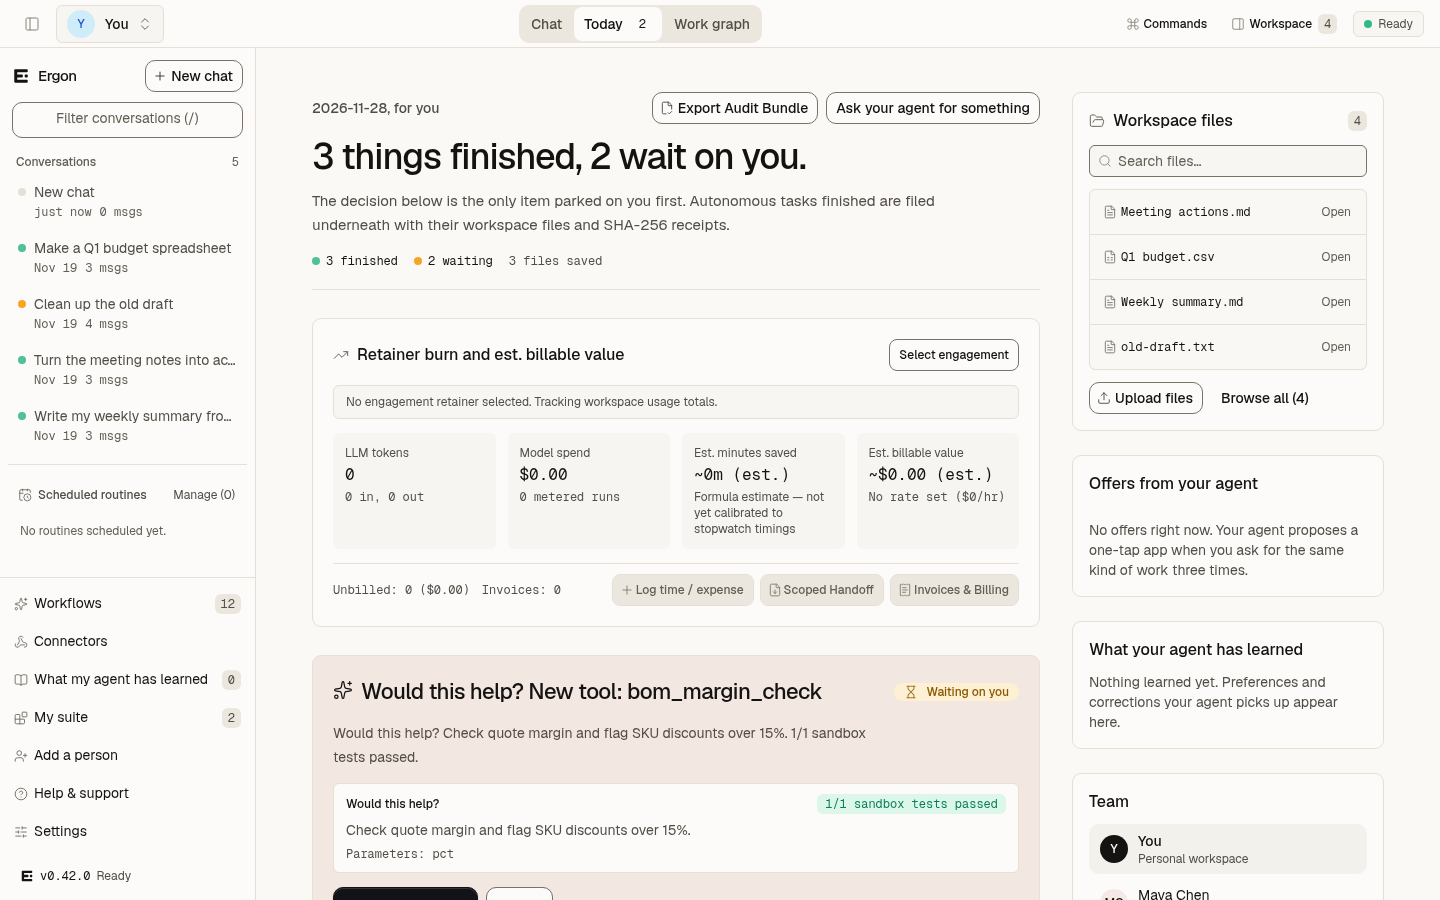
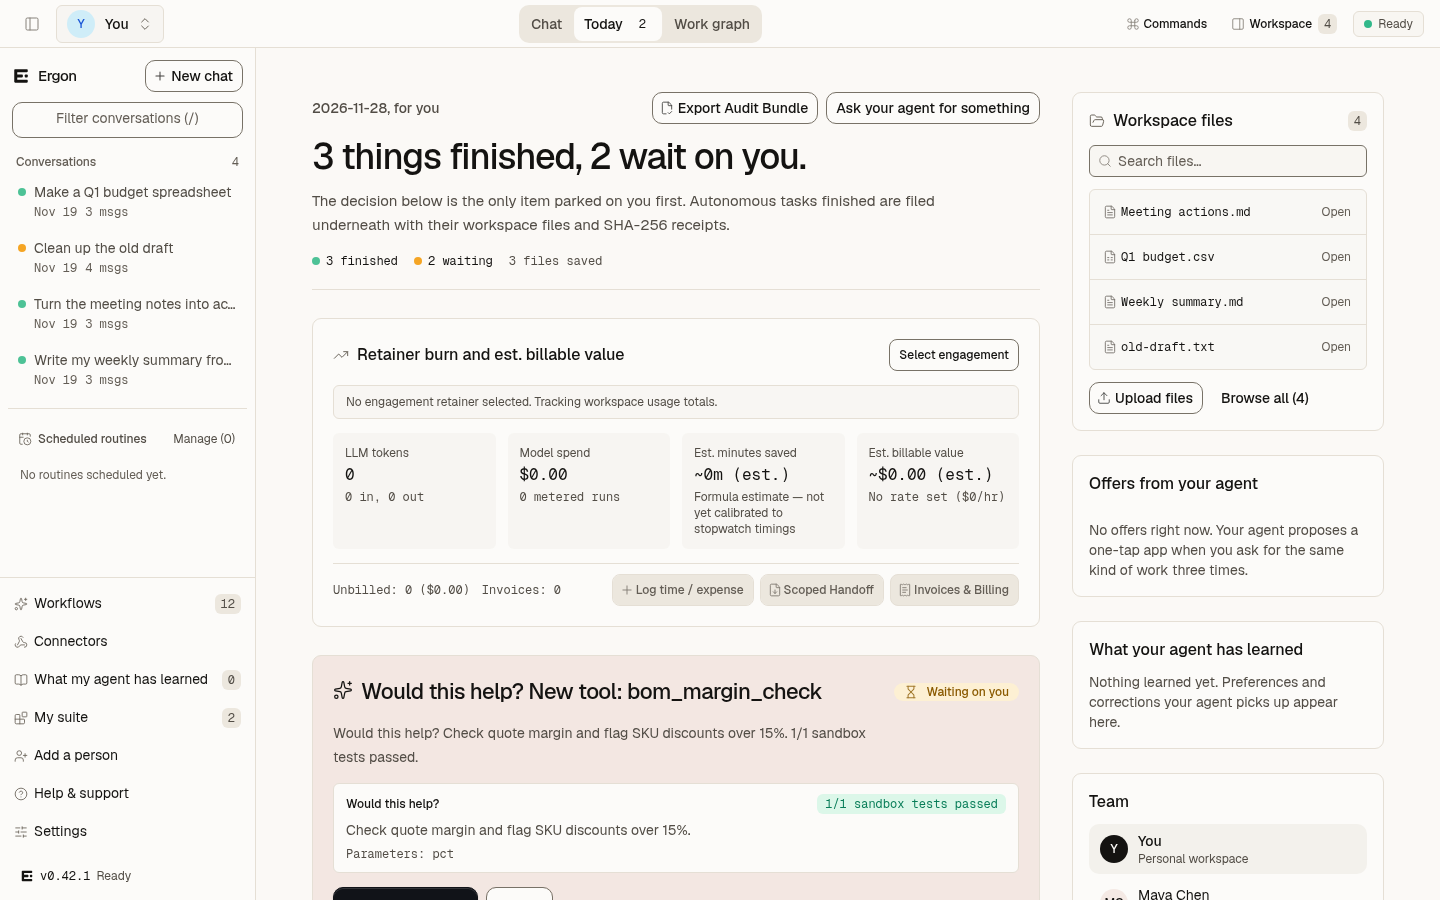
release: ship v0.42.1 with brand assets, refreshed screenshots, walkthrough poster, and Node 24 Actions

diff --git a/README.md b/README.md
@@ -24,13 +24,20 @@ Every employee gets an isolated workspace, phone-first Approve/Deny triage, sand
 <p align="center">
   <picture>
     <source media="(prefers-color-scheme: dark)" srcset="docs/screenshots/hero-dark.png" />
-    <img src="docs/screenshots/hero-light.png" alt="Ergon v0.42.0 Today view showing finished runs, sandbox-tested tool offer waiting for approval, team workspaces, and workspace files" width="76%" />
+    <img src="docs/screenshots/hero-light.png" alt="Ergon v0.42.1 Today view showing finished runs, sandbox-tested tool offer waiting for approval, team workspaces, and workspace files" width="76%" />
   </picture>
   &nbsp;
   <picture>
     <source media="(prefers-color-scheme: dark)" srcset="docs/screenshots/phone-dark.png" />
     <img src="docs/screenshots/phone-light.png" alt="Ergon /phone approval surface" width="21%" />
   </picture>
+</p>
+
+<p align="center">
+  <a href="https://github.com/cayleb-james2008/ergon/releases/download/v0.42.1/ergon-walkthrough.mp4">
+    <img src="docs/screenshots/walkthrough-poster.jpg" alt="Watch the Ergon v0.42.1 product walkthrough (Today, Work Graph, /phone approvals, and local-first Settings)" width="82%" />
+  </a><br />
+  <sub><a href="https://github.com/cayleb-james2008/ergon/releases/download/v0.42.1/ergon-walkthrough.mp4">Watch the 48-second walkthrough (1280×720 H.264 MP4)</a> · <a href="https://github.com/cayleb-james2008/ergon/releases/download/v0.42.1/ergon-walkthrough-chapters.vtt">Chapter markers (VTT)</a></sub>
 </p>
 
 ## Why Ergon
@@ -117,7 +124,7 @@ All claims below are backed by [`evals/run_evals.py`](evals/run_evals.py) agains
 | **5. Multi-Tenant RBAC & Memory Isolation** | `deterministic` | — | Role/workspace isolation enforced; unauthorized writes blocked (`403`) | **PASS** |
 | **6. Replay-Gated Self-Improvement** | `deterministic` | — | `v2` promoted on replay (`0` regressions), `v3` rejected, live auto-rollback -> `v1` | **PASS** |
 
-- **Server footprint (`v0.42.0` Linux release):** `11.62 MiB` single binary (`12,182,384 B`); `v0.40.0` measured `6.08 ms` cold boot, `22.19 MB` peak RSS, and `4,009.2 req/s` (`0/10,036` errors) over 16 concurrent workers.
+- **Server footprint (`v0.42.1` Linux release):** `11.62 MiB` single binary (`12,182,384 B`); `v0.40.0` measured `6.08 ms` cold boot, `22.19 MB` peak RSS, and `4,009.2 req/s` (`0/10,036` errors) over 16 concurrent workers.
 - **Sequential live model timing study (`30` runs across 4 roles):** [`evidence/timing/2026-11-27/report.md`](evidence/timing/2026-11-27/report.md).
 
 ---

diff --git a/CHANGELOG.md b/CHANGELOG.md
@@ -4,6 +4,15 @@ Each release is tagged `vMAJOR.MINOR.PATCH` and published on GitHub Releases wit
 binaries and a `SHA256SUMS` file. The running app shows its version and can update
 itself from the newest release (see README, "Versions and updates").
 
+## 0.42.1 - 2026-11-27
+
+Shipped brand identity assets, redesigned Work Graph visual exploration, zero-key browser demo hardening, refreshed screenshots and walkthrough video, and Node 24 GitHub Actions upgrades.
+
+- **Ergon Brand Mark & Adaptive Lockup (`frontend/src/shell/ErgonLogo.tsx`, `docs/brand/`, `frontend/index.html`, `README.md`):** Added the geometric Ergon monochrome SVG mark and wordmark across the adaptive SVG favicon, desktop sidebar header/footer, empty Chat welcome tile, `AuthScreen`, `OnboardingCard`, `/phone` header and alert badge, and `README.md`.
+- **Work Graph UI/UX Overhaul (`frontend/src/views/Graph.tsx`):** Replaced wavy contours with a clean `20×20` dot-grid canvas, column headers with counts, hairline column dividers, pill nodes with balanced gutters, multi-hop causal lineage pinning, contextual `#graph-inspector` with clickable neighbor chips and direct file open, and search/kind filtering.
+- **Zero-Key Browser Demo Hardening (`frontend/src/shell/SettingsPanel.tsx`):** Verified zero personal API keys across frontend bundles and workflows, added an explicit zero-key privacy notice, and added zero-key BYOK presets (`OpenRouter Free (CORS)`, `Local Ollama`, `Local DSH Free Forwarder`).
+- **Release & CI Packaging (`.github/workflows/*.yml`, `docs/screenshots/`):** Refreshed desktop `hero` and `/phone` dark/light screenshots, attached the 1280×720 OpenMotion/HyperFrames product walkthrough video (`ergon-walkthrough.mp4`) and VTT chapters to the `v0.42.1` release, and upgraded GitHub Actions workflows to Node 24-native action releases.
+
 ## 0.42.0 - 2026-11-27
 
 Polished public repository hygiene, modularized the Rust server/pipeline/model layers, added native Anthropic Messages API support, wired deterministic BOM generation into `make_spreadsheet`, and shipped a reproducible benchmark and adversarial eval suite (`evals/`).
